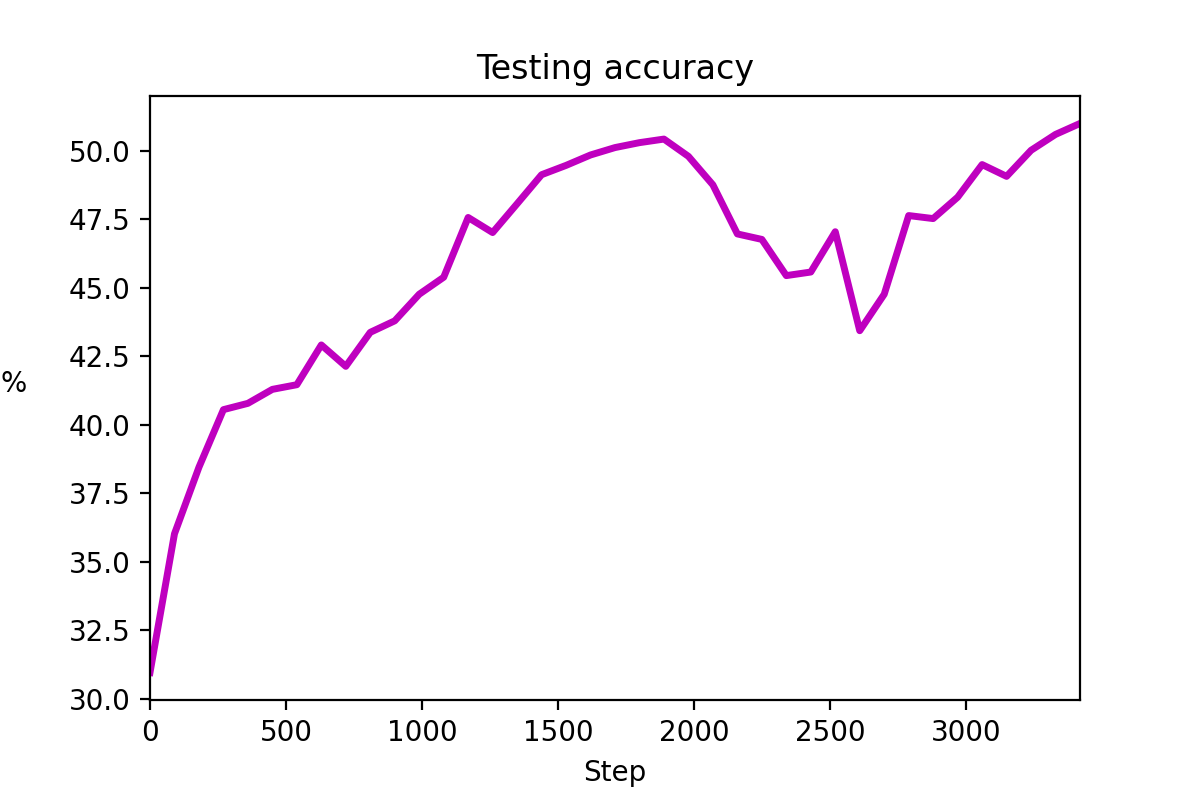
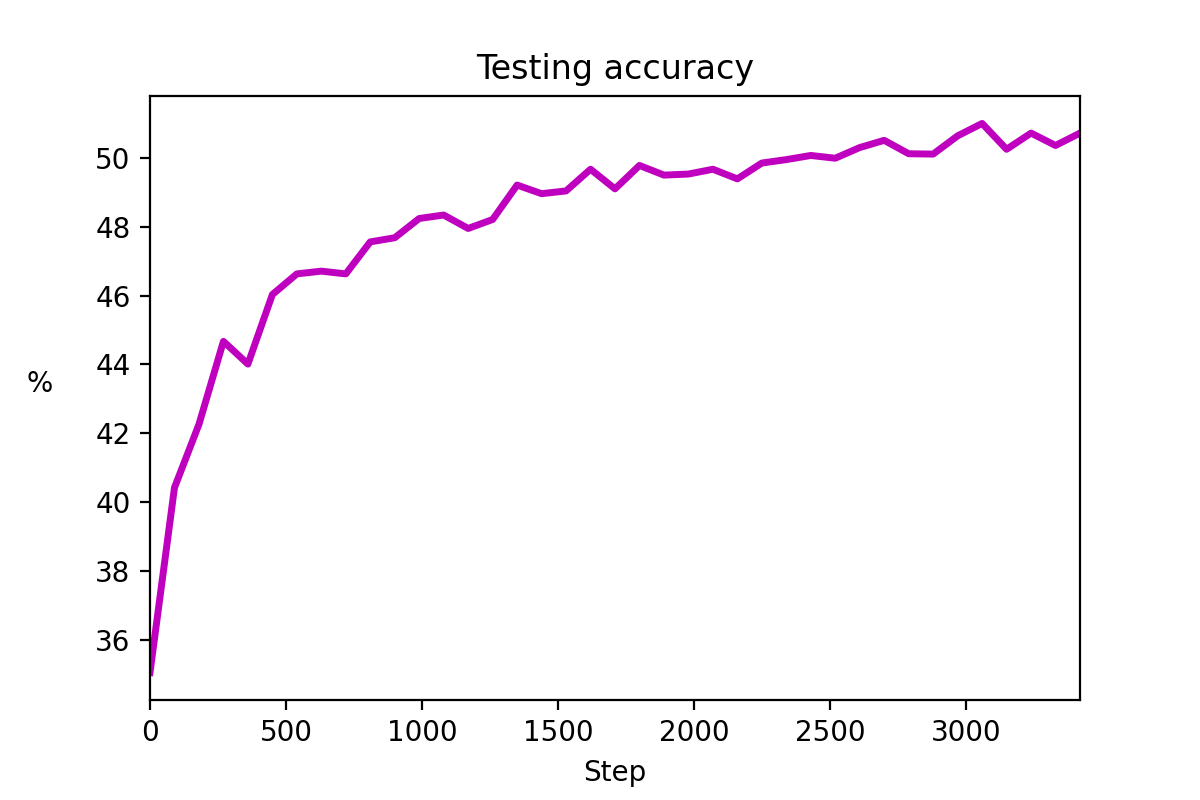
Finished code for A2 bonus

diff --git a/a2_bonus/model.py b/a2_bonus/model.py
@@ -3,6 +3,51 @@
 import numpy as np
 from misc import softMax
 
+class AdamOpt:
+    def __init__(
+            self,
+            beta1: float,
+            beta2: float,
+            eps: float,
+            weights: list
+        ):
+        # save init params
+        self.beta1 = beta1
+        self.beta2 = beta2
+        self.eps = eps
+        
+        # init dicts for saving moments
+        self.m, self.v = {}, {}
+        
+        # init moments
+        for name, weight in weights.items():
+            self.m[name] = np.zeros(weight.shape)
+            self.v[name] = np.zeros(weight.shape)
+            
+    def calcMoment(self, beta, moment, grad):
+        newMoment = beta * moment + (1 - beta) * grad
+        return newMoment
+    
+    def step(self, weight, grad, t):     
+        # update fist moment and correct bias
+        self.m[weight] = self.calcMoment(
+            self.beta1 ** t,
+            self.m[weight], 
+            grad
+        )
+        
+        # update second moment and correct bias
+        self.v[weight] = self.calcMoment(
+            self.beta2 ** t,
+            self.v[weight], 
+            np.square(grad)
+        )
+        
+        mCorrected = self.m[weight] / (1 - self.beta1 ** t)
+        vCorrected = self.v[weight] / (1 - self.beta2 ** t)
+        stepUpdate = mCorrected / (np.sqrt(vCorrected) + self.eps)
+        return stepUpdate
+
 class neuralNetwork:
     def __init__(
             self, 
@@ -10,6 +55,7 @@ class neuralNetwork:
             d: int,
             m: int,
             p_dropout: float,
+            optimizer: str,
             seed: int
         ):
         
@@ -20,6 +66,9 @@ class neuralNetwork:
         
         # init dropout 
         self.p_dropout = p_dropout
+        
+        # init optimizer
+        self.optimizer = optimizer
         
         # set seed
         np.random.seed(seed)
@@ -48,6 +97,15 @@ class neuralNetwork:
                 )
         }
         
+        # init optimizer
+        if self.optimizer == 'Adam':
+            self.opt = AdamOpt(
+                beta1=0.9,
+                beta2=0.999,
+                eps=1e-8,
+                weights=self.weights
+            )
+        
     def evaluate(
             self, 
             X: np.array,
@@ -61,29 +119,9 @@ class neuralNetwork:
         Returns
         -------
         P : KxN score matrix w. softmax activation
-        """
-        # if train:
-        #     if self.p_dropout > 0:
-        #         # get bernoulli vectors for dropout
-        #         for weight in ['W1', 'W2']:
-        #             # get index for dropout
-        #             bernIdx = np.random.binomial(
-        #                 n=1, 
-        #                 p=self.p_dropout,
-        #                 size=self.weights[weight].shape
-        #             )
-        #             self.dropoutIdx[weight] = bernIdx
-                    
-        #             # save weights w/o dropout
-        #             weightTmp = self.weights[weight].copy()
-        #             weightTmp[~bernIdx] = 0
-        #             self.weightsTmp[weight] = weightTmp
-                    
-        #             # set dropped weights to zero
-                    # self.weights[weight][bernIdx] = 0            
-        
+        """       
         # get binary mask for dropout
-        if train:
+        if train and (self.p_dropout > 0):
             mask = np.random.binomial(
                 n=1,
                 p=1-self.p_dropout,
@@ -284,7 +322,8 @@ class neuralNetwork:
             X: np.array, 
             Y: np.array, 
             lambd: float, 
-            eta: float
+            eta: float, 
+            t: int
         ):
         """
         Parameters
@@ -298,5 +337,10 @@ class neuralNetwork:
         # w. GD and learning parameter eta
         grads = self.computeGrads(X, Y, lambd)
         for grad, weight in zip(grads, self.weights):
-            self.weights[weight] -= eta * grad
+            
+            if self.optimizer == 'Adam':
+                stepUpdate = self.opt.step(weight, grad, t)
+                self.weights[weight] -= eta * stepUpdate
+            else:
+                self.weights[weight] -= eta * grad
         

diff --git a/a2_bonus/misc.py b/a2_bonus/misc.py
@@ -78,3 +78,89 @@ def cyclicLearningRate(
         eta = etaMax - (timeStep - (2 * l + 1) * stepSize) / stepSize * (etaMax - etaMin)
     
     return eta
+
+def imgFlip(X: np.array, prob: float) -> np.array:
+    """
+    Parameters
+    ----------
+    X : nxd flattened img. array
+    angle : int
+
+    Returns
+    -------
+    X : nxd flattened img. array w. some flipped inputs
+    """
+    # get shape
+    n, d = X.shape
+    
+    # get sampls along idx axis
+    # and convert to boolean array
+    idxs = np.random.rand(n) < prob
+    
+    # split data
+    X_flipped = X[idxs].copy()
+    N = len(X_flipped)
+    
+    # flip selected data
+    X_flipped = X_flipped.reshape((N, 3, 32, 32))
+    X_flipped = np.flip(X_flipped, axis=3).reshape((N, d))
+
+    # concatenate back into one array
+    X[idxs] = X_flipped
+    
+    # delete flipped imgs
+    del X_flipped
+    
+    return X
+
+def imgTransl(X: np.array, prob: float) -> np.array:
+    """
+    Parameters
+    ----------
+    X : nxd flattened img. array
+    angle : int
+
+    Returns
+    -------
+    X : nxd flattened img. array w. some translated inputs
+    """
+    # get shape
+    n, d = X.shape
+    
+    # get sampls along idx axis
+    # and convert to boolean array
+    idxs = np.random.rand(n) < prob
+    
+    # split data
+    X_translated = X[idxs].copy()
+    N = len(X_translated)
+    
+    # translate selected data
+    X_translated = X_translated.reshape((N, 3, 32, 32))
+
+    # randomize rollIdx and roll img
+    rollIdxV = np.random.choice(np.arange(-3, 3))
+    rollIdxH = np.random.choice(np.arange(-3, 3))
+    X_translated = np.roll(
+        X_translated, 
+        (rollIdxV, rollIdxH),
+        axis=[2, 3]
+    )
+    
+    # blacken removed pixels
+    if (rollIdxV >= 0) and (rollIdxH >= 0):
+        X_translated[:, :, :rollIdxH, -rollIdxV:] = 0
+    elif (rollIdxV >= 0) and (rollIdxH < 0):
+        X_translated[:, :, :rollIdxH, :rollIdxV] = 0
+    elif (rollIdxV < 0) and (rollIdxH >= 0):
+        X_translated[:, :, -rollIdxH:, -rollIdxV:] = 0
+    else:
+        X_translated[:, :, -rollIdxH:, :rollIdxV] = 0
+
+    # concatenate back into one array
+    X[idxs] = X_translated.reshape((N, d))
+    
+    # delete flipped imgs
+    del X_translated
+    
+    return X

diff --git a/a2_bonus/train_network.py b/a2_bonus/train_network.py
@@ -5,7 +5,7 @@ import matplotlib.pyplot as plt
 
 # get files
 from model import neuralNetwork
-from misc import getCifar, cyclicLearningRate
+from misc import getCifar, imgFlip, imgTransl, cyclicLearningRate
 
 def trainNetwork(
         n_epochs: int, 
@@ -17,6 +17,9 @@ def trainNetwork(
         lambd: float,
         m: int,
         p_dropout: float,
+        p_flip: float,
+        p_transl: float,
+        optimizer: str,
         plot: bool,
         version: str
     ):
@@ -70,6 +73,7 @@ def trainNetwork(
         d = 3072,
         m = m,
         p_dropout = p_dropout,
+        optimizer = optimizer,
         seed=1
     )
     
@@ -88,25 +92,37 @@ def trainNetwork(
         np.random.shuffle(idxs)
         X_train, Y_train, k_train = X_train[idxs], Y_train[idxs], k_train[idxs]
         
+        # flip images
+        if p_flip > 0:
+            X_train = imgFlip(X_train, prob=p_flip)
+            
+        # translate images
+        if p_transl > 0:
+            X_train = imgTransl(X_train, prob=p_transl)
+        
         # iterate over batches
         for i in range(len(X_train) // n_batch):
             X_trainBatch = X_train[i*n_batch:(i+1)*n_batch]
             Y_trainBatch = Y_train[i*n_batch:(i+1)*n_batch]
             
             # update eta
-            eta = cyclicLearningRate(
-                etaMin=eta_min, 
-                etaMax=eta_max, 
-                stepSize=ns, 
-                timeStep=t
-            )        
+            if optimizer == 'Adam':
+                eta = 0.001
+            else:
+                eta = cyclicLearningRate(
+                    etaMin=eta_min, 
+                    etaMax=eta_max, 
+                    stepSize=ns, 
+                    timeStep=t
+                )
             
             # run training, GD update
             neuralNet.train(
                 X=X_trainBatch, 
                 Y=Y_trainBatch, 
                 lambd=lambd, 
-                eta=eta
+                eta=eta,
+                t=epoch
             )
             
             # append to list of eta and update time step

diff --git a/a2_bonus/main.py b/a2_bonus/main.py
@@ -21,10 +21,14 @@ eta_min = 1e-5
 eta_max = 1e-1
 ns      = 2 * 45000 // n_batch
 n_cycles = 2
+p_flip = 0.2
+p_transl = 0.05
 
 # specify network
-m = 200
-p_dropout = 0.4
+m = 100
+p_dropout = 0.2
+optimizer = 'Adam'
+# optimizer = ''
 
 # set lambda values
 l_min = -5
@@ -40,7 +44,10 @@ saveDict = {
         'ns':ns,
         'n_cycles':n_cycles,
         'm':m,
-        'p_dropout':p_dropout
+        'p_dropout':p_dropout,
+        'p_flip':p_flip,
+        'p_transl':p_transl,
+        'optimizer':optimizer
 }}
 
 # iterate over possible lambda values
@@ -53,7 +60,7 @@ for v in range(20):
     # get version
     version = 'v' + str(v)
     
-    print('\n TRAIN NETWORK ({}): cycles: {}, lambda: {:.3f}\n'.format(
+    print('\n TRAIN NETWORK ({}): cycles: {}, lambda: {:.5f}\n'.format(
         version,
         n_cycles,
         lambd
@@ -69,6 +76,9 @@ for v in range(20):
         n_cycles=n_cycles,
         m=m,
         p_dropout=p_dropout,
+        p_flip=p_flip,
+        p_transl=p_transl,
+        optimizer=optimizer,
         lambd=lambd,
         version=version,
         plot=True

diff --git a/a1_bonus/misc.py b/a1_bonus/misc.py
@@ -137,11 +137,7 @@ def imgFlip(X: np.array, prob: float) -> np.array:
     # flip selected data
     X_flipped = X_flipped.reshape((N, 3, 32, 32))
     X_flipped = np.flip(X_flipped, axis=3).reshape((N, d))
-    
-    # X_flipped = X_flipped.transpose(0, 2, 3, 1)
-    # X_flipped = np.flip(X_flipped, axis=2)
-    # X_flipped = X_flipped.transpose(0, 3, 1, 2).reshape((N, d))
-    
+
     # concatenate back into one array
     X[idxs] = X_flipped
     
